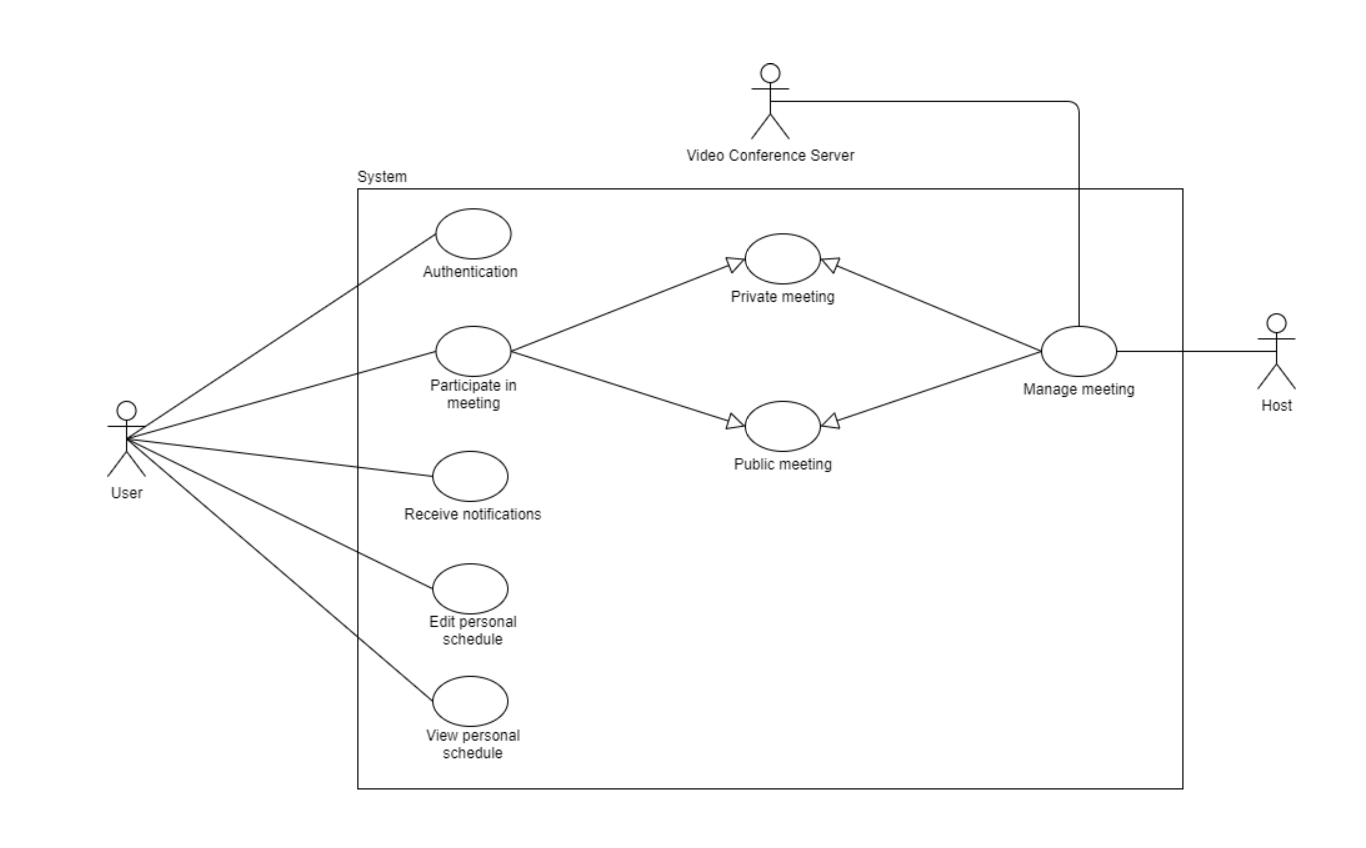
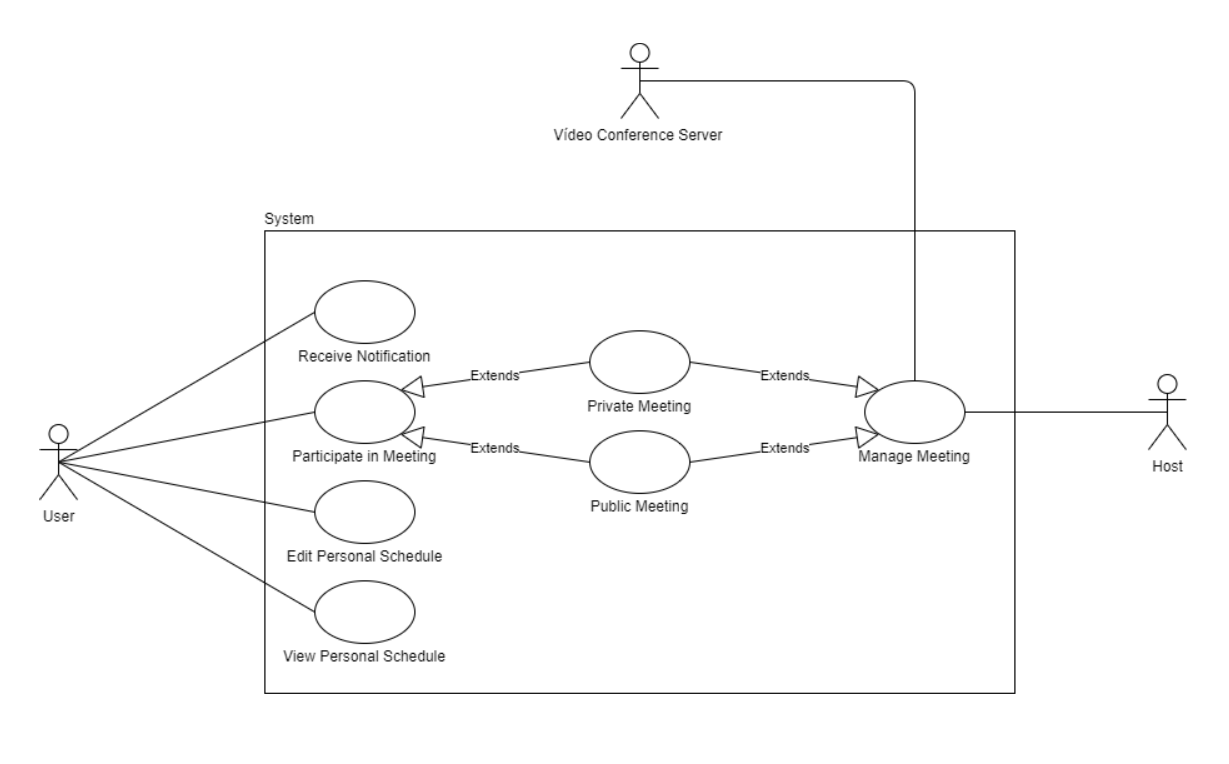
Changes in the report

diff --git a/Development-Report.md b/Development-Report.md
@@ -68,38 +68,22 @@ Start by contextualizing your module, describing the main concepts, terms, roles
 ![Use case diagram](./use_case_diagram.png)
 
 
-#### **Authentication**
-
-* **Actor:** User
-
-* **Description:** Is the process by which users securely access the system, in order to use the application.
-
-* **Preconditions and Postconditions:** There is no preconditions for a user to authenticate, however after authenticating the user can use all the tools of the application.
-
-* **Normal Flow:**
-  * On the main page of the application, the actor selects the option "Sign up" if he doesn't have an account.
-  * The actor sees the "Sign up" page.
-  * The actor fills the necessary spaces.
-  * The actor must press de "Next" button to confirm authentication.
-
-* **Alternative Flows and Exceptions:**
-  * On the main page of the application, the actor selects the option "Log in" if he has an account.
-  * The actor sees the "Log in" page.
-  * The actor fills the necessary spaces.
-  * The actor must press de "Next" button to confirm authentication.
-
 #### **Participate in a Meeting**
 
 * **Actor:** User
 
-* **Description:** Each user can participate in a meeting, which can be
-private or public.
+* **Description:** Each user can participate in a meeting, which can be private or public.
 
 * **Preconditions and Postconditions:** To participate in a meeting the user must be authenticated in the application. How ever, if it is a private meeting, the user must be invited to that meeting.
 
-* **Normal Flow:** Provide a detailed description of the user actions and system responses that will take place during execution of the use case under normal, expected conditions. This dialog sequence will ultimately lead to accomplishing the goal stated in the use case name and description. This is best done as a numbered list of actions performed by the actor, alternating with responses provided by the system.
+* **Normal Flow:** 
+  * In the "Schedule" page, the actor selects the meeting link to attend.
 
-* **Alternative Flows and Exceptions:** Document other, legitimate usage scenarios that can take place within this use case, stating any differences in the sequence of steps that take place. In addition, describe any anticipated error conditions that could occur during execution of the use case, and define how the system is to respond to those conditions.
+* **Alternative Flows:**
+  * In the "Menu" page, the actor selects the "Schedule" page.
+  * In the "Schedule" page, the actor selects the meeting link to attend.
+
+* **Alternative Flows and Exceptions:** Document other, legitimate usage scenarios that can take place within this use case, stating any differences in the sequence of steps that take place. In addition, describe any anticipated error conditions that could occur during execution of the use case, and define how the system is to respond to those conditions. (**Ocorreu-me a possibilidade de o host da meeting ainda não a ter iniciado um aviso ao utilizador**)
 
 #### **Receive Notifications**
 
@@ -107,11 +91,9 @@ private or public.
 
 * **Description:** The user can receive a notification to notify them of a future meeting.
 
-* **Preconditions and Postconditions:** To receive notification the user must be authenticated in the application.
+* **Preconditions and Postconditions:** To receive notification the user must be authenticated in the application, and have the phone notifications active.
 
 * **Normal Flow:** ???????????????????????????????
-
-* **Alternative Flows and Exceptions:** ???????????????????????????????
 
 #### **View Personal Schedule**
 
@@ -125,8 +107,6 @@ private or public.
   * In the Menu, the actor selects de "Schedule" option.
   * The actor sees the "Schedule" page.
 
-* **Alternative Flows and Exceptions:** ???????????????????????????????
-
 #### **Edit Personal Schedule**
 
 * **Actor:** User
@@ -135,14 +115,32 @@ private or public.
 
 * **Preconditions and Postconditions:** To see the personal schedule, the user must be authenticated in the application.
 
-* **Normal Flow:** ???????????????????????????????
+* **Normal Flow:**
   * In the "Menu" page, the actor selects the "Schedule" option.
   * The actor sees the "Schedule" page.
-  * In the "Schedule" page, the actor selects the edit icon.
+  * The actor selects the edit icon.
   * The actor sees the "Edit Schedule" page.
-  * In the "Edit Schedule" page, the actor can select de button "Add Meeting" or "Edit Schedule".
+  * The actor can select the "Add Meeting" button.
+  * The actor sees the "Add Meeting" page.
+  * The actor selects desired meeting to add and presses the "Next" button to confirm.
 
-* **Alternative Flows and Exceptions:** ???????????????????????????????
+* **Normal Flow:**
+  * In the "Menu" page, the actor selects the "Schedule" option.
+  * The actor sees the "Schedule" page.
+  * The actor selects the edit icon.
+  * The actor sees the "Edit Schedule" page.
+  * The actor can select the "Remove Meeting" button.
+  * The actor sees the "Remove Meeting" page.
+  * The actor selects the meetings to remove and presses the "Next" button to confirm.
+
+* **Alternative Flowsions:**
+  * In the "Edit Schedule" page, the actor presses the "Cancel" to return to the previous page.
+
+* **Alternative Flows**
+  * In the "Remove Meeting" page, the actor presses the "Cancel" to return to the previous page.
+
+* **Alternative Flows**
+  * In the "Add Meeting" page, the actor presses the "Cancel" to return to the previous page.
 
 #### **Manage Meeting**
 
@@ -152,35 +150,53 @@ private or public.
 
 * **Preconditions and Postconditions:** To manage a metting, the host must also be a user, and therefore must be authenticated in the application.
 
-* **Normal Flow:** ???????????????????????????????
-  * 
-  * 
+* **Normal Flow:** 
+  * In the "Menu" page, the actor selects the "Create Meeting" option.
+  * The actor sees the "Create Meeting" page.
+  * The actor fills the necessary spaces.
+  * The actor must press de "Next" button to confirm authentication.
 
-* **Alternative Flows and Exceptions:** ???????????????????????????????
+* **Normal Flow:** 
+  * In the "Menu" page, the actor selects the "Profile" option.
+  * The actor sees the "Profile" page.
+  * The actor selects the edit icon.
+  * The actor sees the "Edit Profile" page.
+  * The actor selects the meeting to edit.
+  * The actor changes the necessary spaces.
+  * The actor must press de "Next" button to confirm.
+
+  * **Normal Flow:** 
+  * In the "Menu" page, the actor selects the "Profile" option.
+  * The actor sees the "Profile" page.
+  * The actor selects the edit icon.
+  * The actor sees the "Edit Profile" page.
+  * The actor selects the meeting to edit.
+  * The actor must press de "Delete Meeting" button to delete the meeting.
+
+* **Alternative Flows**
+  * In the "Create Meeting" page, the actor presses the "Cancel" to return to the previous page.
+
+* **Alternative Flows**
+  * In the "Edit Profile" page, the actor presses the "Cancel" to return to the previous page.
+
+* **Alternative Flows**
+  * In the "Edit Meeting" page, the actor presses the "Cancel" to return to the previous page.
 
 #### **Private Meeting**
 
-* **Actor:** ???????????????????????????????
+* **Actor:** Actor and Host
 
-* **Description:** ???????????????????????????????
+* **Description:** Its a specific type of meetings to be handled.
 
-* **Preconditions and Postconditions:** ???????????????????????????????
-
-* **Normal Flow:** ??????????????????????????????? 
-
-* **Alternative Flows and Exceptions:** ???????????????????????????????
+* **Preconditions and Postconditions:** To access the private meeting, the user must be authenticated in the application, so that he can access a private meeting as a user, only if he is invited to do so, or create a private meeting as a host.
 
 #### **Public Meeting**
 
-* **Actor:** ???????????????????????????????
+* **Actor:** Actor and Host
 
-* **Description:** ???????????????????????????????
+* **Description:** Its a specific type of meetings to be handled.
 
-* **Preconditions and Postconditions:** ???????????????????????????????
-
-* **Normal Flow:** ???????????????????????????????
-
-* **Alternative Flows and Exceptions:** ???????????????????????????????
+* **Preconditions and Postconditions:** To access the public meeting, the user must be authenticated in the application, so that he can access a public meeting as a user, or create a public meeting as a host.
 
 ### User stories
 This section will contain the requirements of the product described as **user stories**, organized in a global **[user story map](https://plan.io/blog/user-story-mapping/)** with **user roles** or **themes**.
